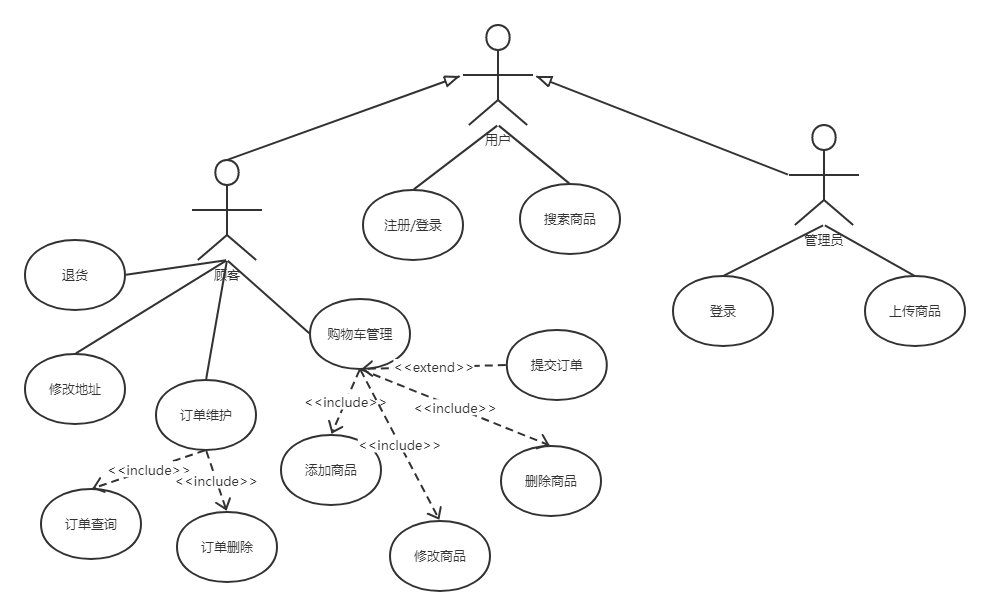
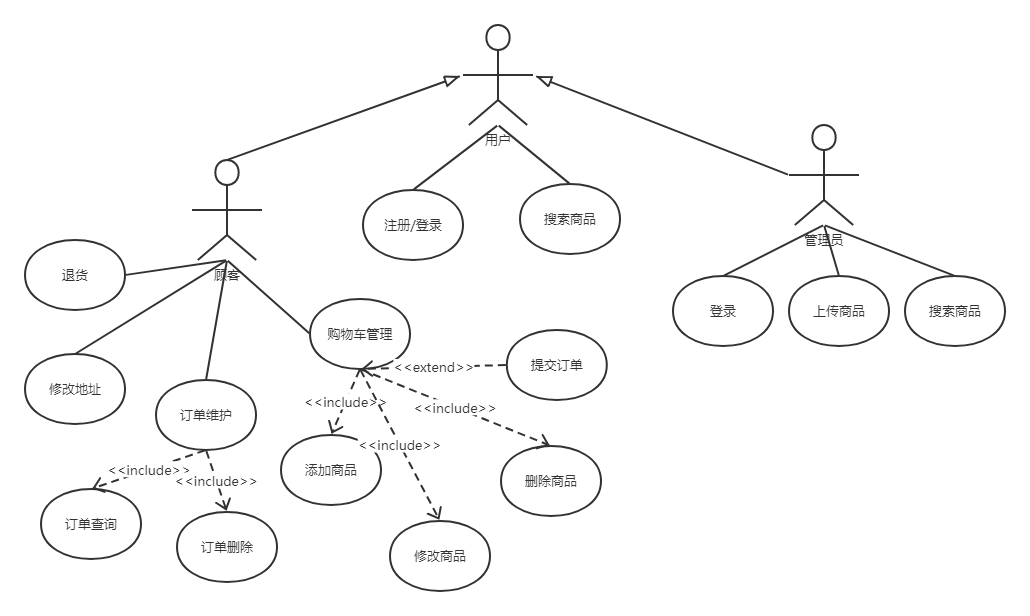
manage_product

diff --git a/demo1/miniprogram/pages/admin_manage_product/admin_manage_product.js b/demo1/miniprogram/pages/admin_manage_product/admin_manage_product.js
@@ -1,0 +1,166 @@
+// miniprogram/pages/admin_manage_product/admin_manage_product.js
+var util = require('../../utils/time.js')
+const db = wx.cloud.database()
+Page({
+
+    /**
+     * 页面的初始数据
+     */
+    data: {
+        classify:"全部",
+        product:[],
+        classify_list:[{'name':'全部'}]
+    },
+    // 选择分类
+    select_classify(e){
+        let that = this
+        let classify = that.data.classify_list[e.detail.value*1].name
+        that.setData({
+            classify:classify
+        })
+        if(classify=='全部'){
+            that.get_product()
+        }else{
+            wx.showLoading({
+                title: '搜索中',
+            })
+            wx.cloud.callFunction({
+                name:"product_manage",
+                data:{
+                    method:"to_classify",
+                    classify:classify
+                }
+            }).then(res=>{
+                wx.hideLoading()
+                console.log('获取商品',res.result.data)
+                that.setData({
+                    product:res.result.data
+                })
+            })
+        }
+    },
+    //搜索商品
+    search(e){
+        let that = this
+        if(e.detail.value){
+            wx.showLoading({
+                title: '搜索中',
+            })
+            wx.cloud.callFunction({
+                name:"product_manage",
+                data:{
+                    method:"search",
+                    name:e.detail.value
+                }
+            }).then(res=>{
+                wx.hideLoading()
+                console.log('获取商品',res.result.data)
+                that.setData({
+                    product:res.result.data
+                })
+            })
+        }else{
+            that.get_product()
+        }
+
+    },
+    //转化时间
+    change_time(li){
+        if(li.length == 0){
+            return li
+        }else{
+            for(let i=0;i<li.length;i++){
+                li[i].time = util.formatTime(li[i].time)
+                if(i+1 == li.length){
+                    return li
+                }
+            }
+        }
+    },
+    // 获取商品
+    get_product(){
+        let that = this
+        wx.showLoading({
+            title: '加载中',
+        })
+        wx.cloud.callFunction({
+            name:"product_manage",
+            data:{
+                method:"get_product"
+            }
+        }).then(res=>{
+            wx.hideLoading()
+            console.log('获取商品',res.result.data)
+            that.setData({
+                product:res.result.data
+            })
+        })
+    },
+    // 获取分类
+    get_classify(){
+        let that = this
+        db.collection('classify').get().then(res=>{
+            let list = that.data.classify_list.concat(res.data)
+            that.setData({
+                classify_list:list
+            })
+        })
+    },
+    /**
+     * 生命周期函数--监听页面加载
+     */
+    onLoad: function (options) {
+        let that = this
+        that.get_product()
+        that.get_classify()
+    },
+
+    /**
+     * 生命周期函数--监听页面初次渲染完成
+     */
+    onReady: function () {
+
+    },
+
+    /**
+     * 生命周期函数--监听页面显示
+     */
+    onShow: function () {
+
+    },
+
+    /**
+     * 生命周期函数--监听页面隐藏
+     */
+    onHide: function () {
+
+    },
+
+    /**
+     * 生命周期函数--监听页面卸载
+     */
+    onUnload: function () {
+
+    },
+
+    /**
+     * 页面相关事件处理函数--监听用户下拉动作
+     */
+    onPullDownRefresh: function () {
+
+    },
+
+    /**
+     * 页面上拉触底事件的处理函数
+     */
+    onReachBottom: function () {
+
+    },
+
+    /**
+     * 用户点击右上角分享
+     */
+    onShareAppMessage: function () {
+
+    }
+})

diff --git a/demo1/miniprogram/pages/add_order/add_order.js b/demo1/miniprogram/pages/add_order/add_order.js
@@ -11,6 +11,27 @@ Page({
         remarks:"",
         all_price:0
     },
+    // 从购物车中删除商品
+    delete_goods(){
+        let that = this
+        for(let i = 0;i<that.data.goods.length;i++){
+            db.collection('shopping_car').doc(that.data.goods[i]._id).remove()
+        }
+    },
+    // 增加销量
+    inc_sales_volume(){
+        let that = this
+        for(let i = 0;i<that.data.goods.length;i++){
+            wx.cloud.callFunction({
+                name:'product_manage',
+                data:{
+                    method:"inc_sales_volume",
+                    id:that.data.goods[i].product_id,
+                    num:that.data.goods[i].product_num
+                }
+            })
+        }
+    },
     //下单事件
     add_order(){
         let that = this
@@ -38,6 +59,8 @@ Page({
                 wx.showToast({
                   title: '下单成功',
                 })
+                that.inc_sales_volume()
+                that.delete_goods()
                 wx.removeStorage({
                   key: 'goods',
                   success(res){

diff --git a/demo1/cloudfunctions/product_manage/index.js b/demo1/cloudfunctions/product_manage/index.js
@@ -1,0 +1,33 @@
+// 云函数入口文件
+const cloud = require('wx-server-sdk')
+
+cloud.init()
+
+const db = cloud.database()
+const _ = db.command
+
+// 云函数入口函数
+exports.main = async (event, context) => {
+    const wxContext = cloud.getWXContext()
+
+    if(event.method == 'get_product'){
+        return await db.collection('product').orderBy("time","desc").get()
+    }else if(event.method == 'search'){
+        return await db.collection('product').where({
+                name: db.RegExp({
+                regexp: event.name,
+                options: 'i',
+            })
+        }).orderBy("time","desc").get()
+    }else if(event.method == 'to_classify'){
+        return await db.collection('product').where({
+            select_classify:event.classify
+        }).orderBy("time","desc").get()
+    }else if(event.method == 'inc_sales_volume'){
+        return await db.collection('product').doc(event.id).update({
+            data:{
+                sales_volume:_.inc(event.num)
+            }
+        })
+    }
+}

diff --git a/demo1/miniprogram/pages/shopping_car/shopping_car.js b/demo1/miniprogram/pages/shopping_car/shopping_car.js
@@ -155,8 +155,7 @@ Page({
      * 生命周期函数--监听页面加载
      */
     onLoad: function (options) {
-        let that = this
-        that.get_shopping_car()
+
     },
 
     /**
@@ -170,7 +169,8 @@ Page({
      * 生命周期函数--监听页面显示
      */
     onShow: function () {
-
+        let that = this
+        that.get_shopping_car()
     },
 
     /**

diff --git a/demo1/cloudfunctions/product/index.js b/demo1/cloudfunctions/product/index.js
@@ -17,7 +17,7 @@ exports.main = async (event, context) => {
             specs:event.specs,
             img:event.img,
             img_detail:event.img_detail,
-            sales_volume:0
+            sales_volume:100
         }
     })
 }
